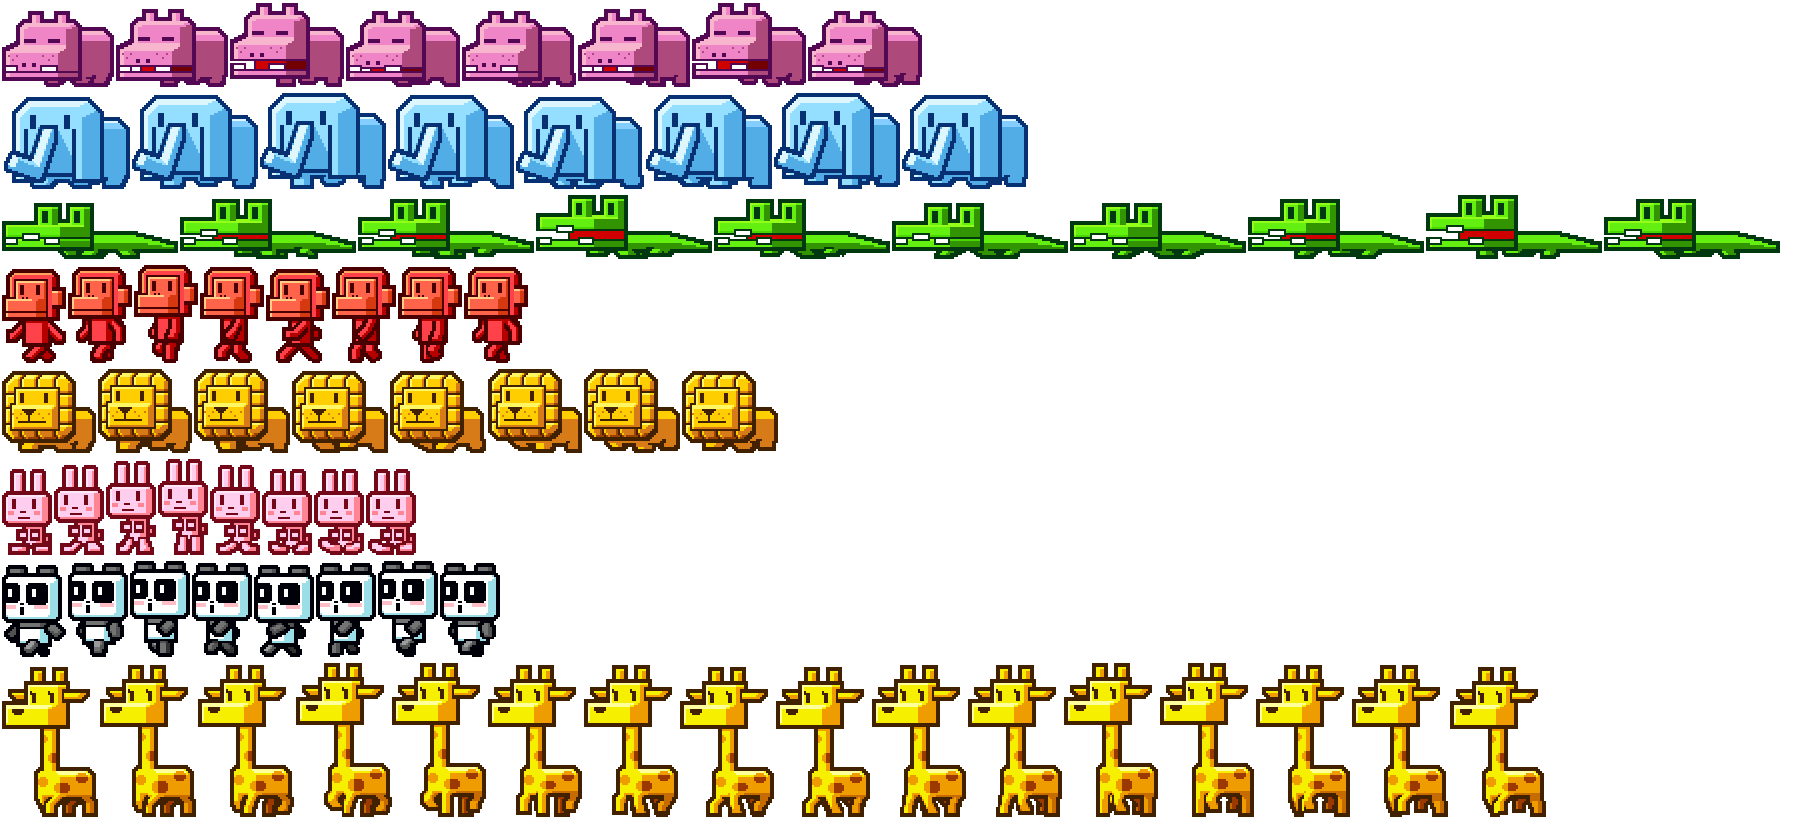
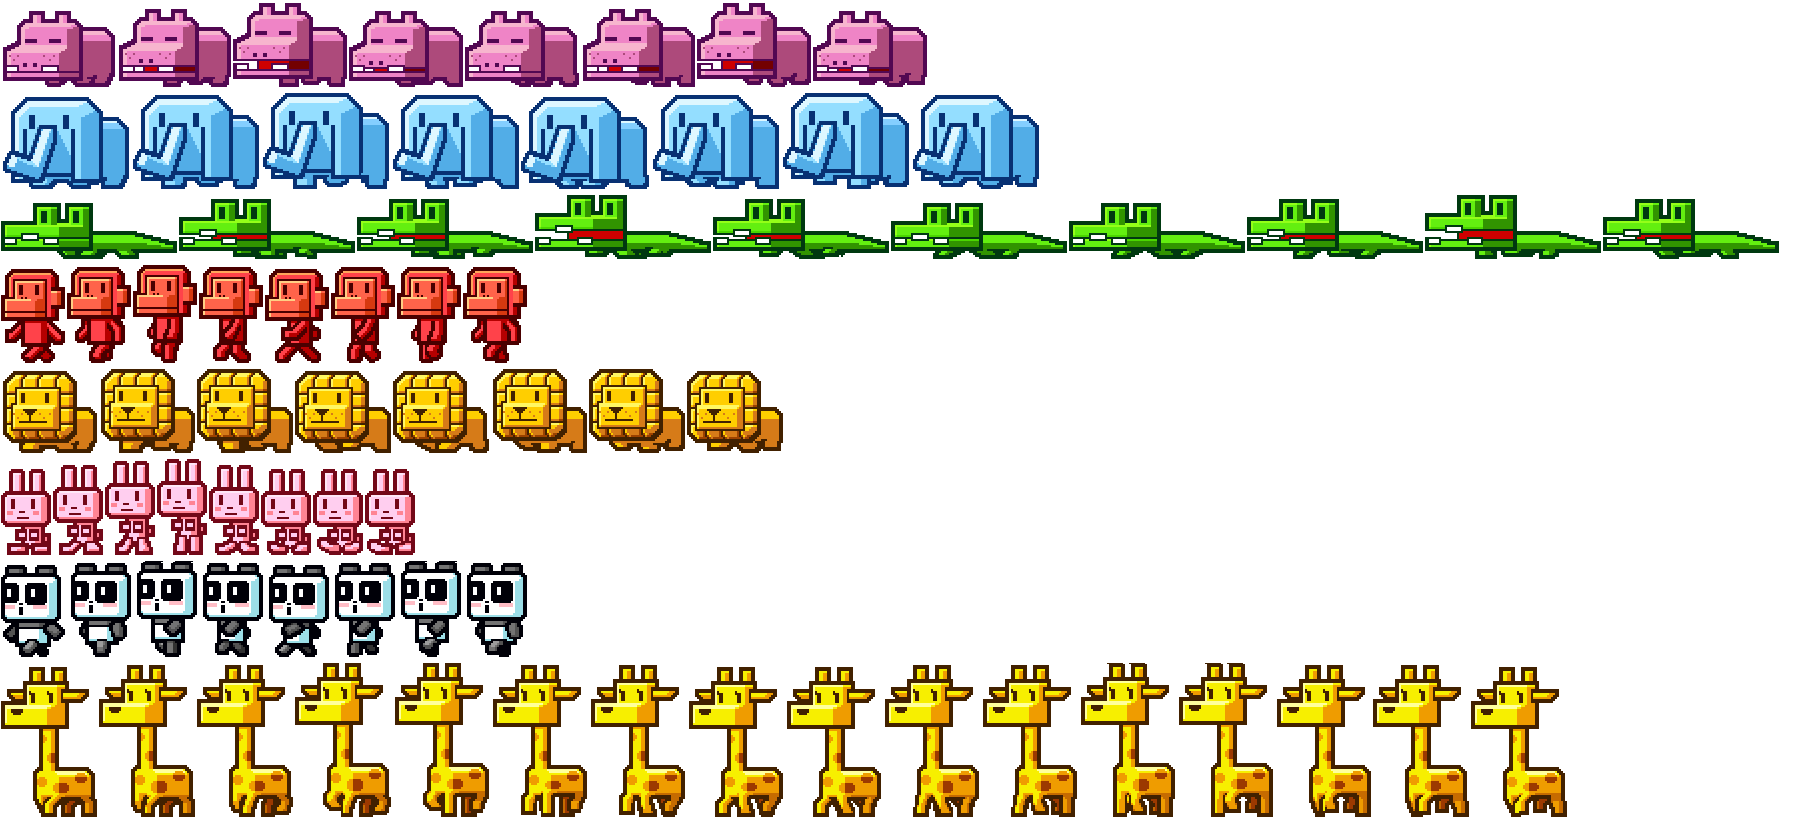
menu animation added

diff --git a/js/GameMenu.js b/js/GameMenu.js
@@ -54,6 +54,7 @@ function GameMenu()
 			case 'guide' :
 				g_ApplicationManager.gameGuide = new GameGuide().startupGameGuide();
 				g_ApplicationManager.gameMenu.shutdownGameMenu();
+				g_ApplicationManager.menuAnimation.shutdownMenuAnimation()
 				break
 			case 'rank' :
 				//
@@ -63,3 +64,57 @@ function GameMenu()
 	}
 }
 GameMenu.prototype = new VisualGameObject;
+
+function MenuAnimation(){
+	this.initialX = 520;
+	this.initialY = 200;
+	this.distance = 20;
+	this.animals = [];
+	this.startupMenuAnimation = function(){
+		console.log('ye')
+		var _initialX = this.initialX; /*第一只动物的初始位置*/
+		var _initialY = this.initialY;
+		var _distance = this.distance; /*动物间隔距离*/
+		var _animals = this.animals;
+		this.animals.push( new Animal().startupAnimal(g_ResourceManager.animals, 0, 0, 116, 87, _initialX, _initialY + 73, 2, 8, 8) );
+		this.animals.push( new Animal().startupAnimal(g_ResourceManager.animals, 0, 87, 130, 102, _animals[_animals.length - 1].x + _animals[_animals.length - 1].width + _distance, _initialY + 58, 2, 8, 8) );
+		this.animals.push( new Animal().startupAnimal(g_ResourceManager.animals, 0, 189, 178, 70, _animals[_animals.length - 1].x + _animals[_animals.length - 1].width + _distance, _initialY + 90, 2, 10, 10) );
+		this.animals.push( new Animal().startupAnimal(g_ResourceManager.animals, 0, 259, 66, 104, _animals[_animals.length - 1].x + _animals[_animals.length - 1].width + _distance, _initialY + 56, 2, 8, 8) );
+		this.animals.push( new Animal().startupAnimal(g_ResourceManager.animals, 0, 363, 98, 90, _animals[_animals.length - 1].x + _animals[_animals.length - 1].width + _distance, _initialY + 70, 2, 8, 8) );
+		this.animals.push( new Animal().startupAnimal(g_ResourceManager.animals, 0, 453, 52, 102, _animals[_animals.length - 1].x + _animals[_animals.length - 1].width + _distance, _initialY + 58, 2, 8, 8) );
+		this.animals.push( new Animal().startupAnimal(g_ResourceManager.animals, 0, 555, 66, 102, _animals[_animals.length - 1].x + _animals[_animals.length - 1].width + _distance, _initialY + 58, 2, 8, 8) );
+		this.animals.push( new Animal().startupAnimal(g_ResourceManager.animals, 0, 657, 98, 160, _animals[_animals.length - 1].x + _animals[_animals.length - 1].width + _distance, _initialY, 2, 16, 16) );
+		return this;
+	}
+
+	this.shutdownMenuAnimation = function(){
+		for(var animal in this.animals){
+			this.animals[animal].shutdownAnimal();
+		}
+	}
+} 
+
+function Animal(){
+	this.speed = 50;
+	this.queueLength = 964;
+	this.startupAnimal = function(image, sx, sy, width, height, x, y, z, frameCount, fps)
+	{
+		this.startupAnimatedGameObject(image, sx, sy, width, height, x, y, z, frameCount, fps);
+		return this;
+	}
+
+	this.update = function(dt, context, xScroll, yScroll)
+	{
+		this.x = this.x - this.speed * dt;
+		if(this.x + this.width < 0)
+		{
+			this.x = this.x + this.queueLength;
+		}
+	}
+
+	this.shutdownAnimal = function()
+	{
+		this.shutdownAnimatedGameObject();
+	}
+}
+Animal.prototype = new AnimatedGameObject;

diff --git a/js/AnimatedGameObject.js b/js/AnimatedGameObject.js
@@ -2,6 +2,7 @@ function AnimatedGameObject()
 {
 
     this.currentFrame = 0;
+    this.frameWidth = 0;
     this.timeBetweenFrames = 0;
     this.timeSinceLastFrame = 0;
     this.frameCount = 0;
@@ -22,9 +23,13 @@ function AnimatedGameObject()
 
         this.startupVisualGameObject(image, sx, sy, width, height, x, y, z);
         this.currentFrame = 0;
+        this.frameWidth = width;
         this.frameCount = frameCount;
         this.timeBetweenFrames = 1/fps;
         this.timeSinceLastFrame = this.timeBetweenFrames;
+
+        console.log(this.frameWidth)
+    console.log(this.currentFrame)
 
         return this;
     }
@@ -57,10 +62,11 @@ function AnimatedGameObject()
 		@param xScroll The global scrolling value of the x axis
 		@param yScroll The global scrolling value of the y axis
     */
+
     this.draw = function(dt, context, xScroll, yScroll)
     {
         var sourceX = this.frameWidth * this.currentFrame;
-        context.drawImage(this.image, sourceX, this.sy, this.width, this.height, this.x - xScroll, this.y - yScroll, this.image.width, this.image.height);
+        context.drawImage(this.image, sourceX, this.sy, this.width, this.height, this.x - xScroll, this.y - yScroll, this.width, this.height);
 
         this.timeSinceLastFrame -= dt;
         if (this.timeSinceLastFrame <= 0)

diff --git a/js/ApplicationManager.js b/js/ApplicationManager.js
@@ -11,6 +11,8 @@ function ApplicationManager()
         g_ApplicationManager = this;
         this.background = new VisualGameObject().startupVisualGameObject(g_ResourceManager.titlescren, 0, 0, 512, 700, 0, 0, 1);
         this.gameMenu = new GameMenu().startupGameMenu();
+        this.menuAnimation = new MenuAnimation().startupMenuAnimation();
+        //new AnimatedGameObject().startupAnimatedGameObject(g_ResourceManager.animals, 0, 0, 116, 87, 300, 300, 2, 8, 8)
         this.updateScore();
         return this;
     }

diff --git a/js/GameGuide.js b/js/GameGuide.js
@@ -42,6 +42,7 @@ function GameGuide()
 		if( event.offsetX > 192 && event.offsetX < 320 && event.offsetY > 650 && event.offsetY < 680 ){
 			//exit button hit
 			g_ApplicationManager.gameMenu = new GameMenu().startupGameMenu();
+			g_ApplicationManager.menuAnimation = new MenuAnimation().startupMenuAnimation();
 			this.shutdownGameGuide();
 		}
 
